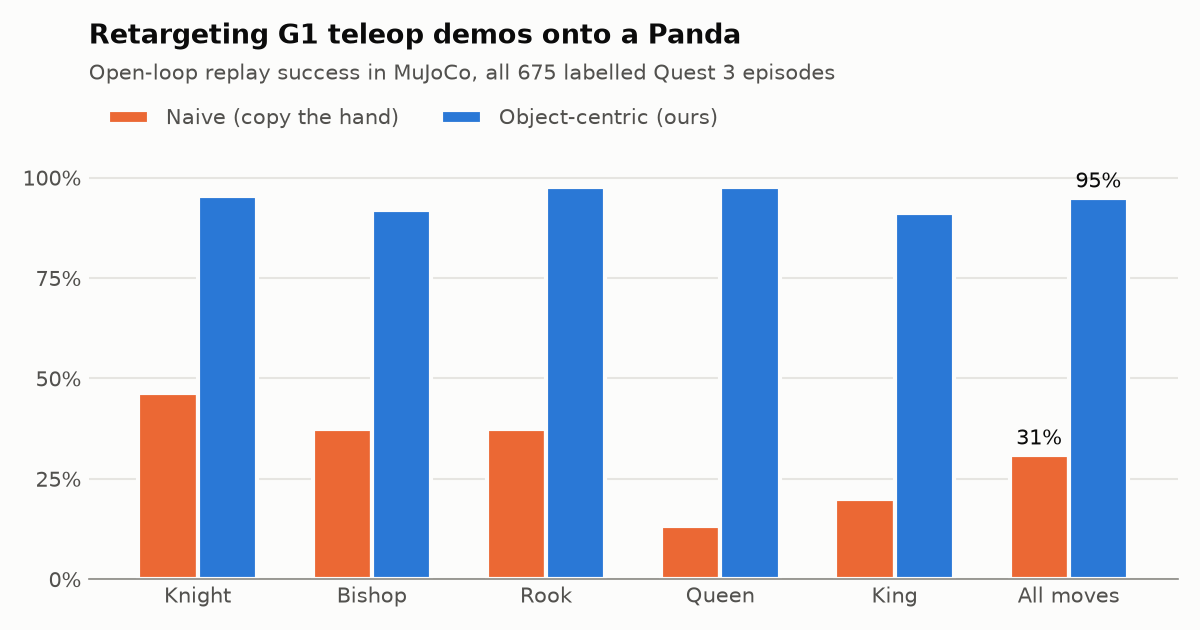
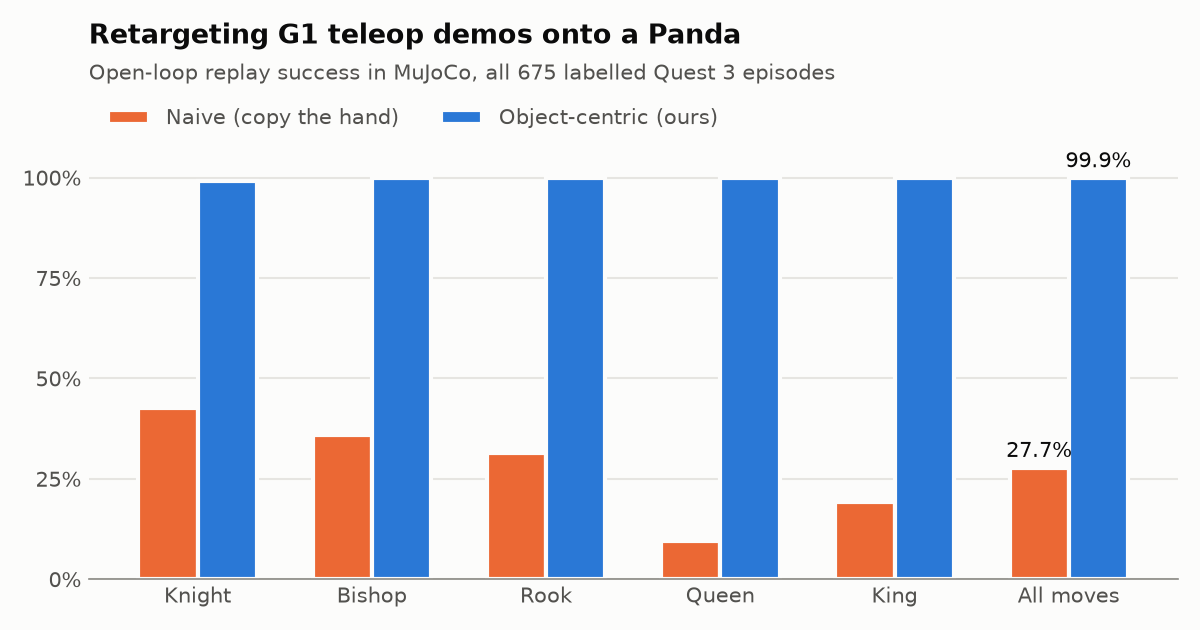
README: final retargeting and game results, what comes from the human data, debugging write-up

diff --git a/scripts/make_figures.py b/scripts/make_figures.py
@@ -53,7 +53,7 @@ def retargeting():
         vals = [np.mean([r["success"] for r in res[m] if g == "all" or r["piece"] == g]) * 100 for g in groups]
         bars = ax.bar(x + (i - 0.5) * w, vals, w, color=SERIES[1 - i], edgecolor=SURFACE, linewidth=2, label=label)
         b = bars[-1]  # direct label on the headline group only
-        ax.text(b.get_x() + b.get_width() / 2, b.get_height() + 1.5, f"{vals[-1]:.0f}%", ha="center",
+        ax.text(b.get_x() + b.get_width() / 2, b.get_height() + 1.5, f"{vals[-1]:.1f}%", ha="center",
                 va="bottom", fontsize=10, color=INK)
     n = len(res["naive"])
     ax.set_xticks(x, [g.capitalize() if g != "all" else "All moves" for g in groups])

diff --git a/README.md b/README.md
@@ -10,6 +10,16 @@ The interesting part is the gap between the two embodiments: a five-fingered hum
 pinches crowns and wraps around knights, versus a two-finger gripper with a 21 cm palm. The
 pipeline closes that gap step by step and measures each step.
 
+| Taken from my recordings | Adapted for the Panda |
+|---|---|
+| every task: the instruction, starting position and move | the last ~0.6 s before each grasp and release: hover, vertical descent, pause, close/open (a gripper cannot copy a Dex3 contact) |
+| where the board was (fitted from my wrist poses alone) | clearance above neighbouring pieces while the gripper is open |
+| the hand's path, timing and speed profile, when it grasps and releases, and the wrist yaw | speed capped at the Panda's limits, and a short transit from wherever the arm is to the start of the motion |
+
+The policies train only on my demonstrations (retargeted, plus board-symmetric copies of the same
+motions), and the full game replays them. The scripted pick-and-place in `chessbot/oracle.py` is
+only used to test the simulator.
+
 <p align="center"><img src="docs/fig_teleop_vs_panda.png" width="760"></p>
 
 **Headline results**
@@ -17,11 +27,11 @@ pipeline closes that gap step by step and measures each step.
 | | |
 |---|---|
 | Board pose recovered from the demos alone | square size **39.97 / 40.43 mm** (left/right arm, true 40 mm), median fingertip error **≈5 mm** |
-| Naive retargeting (copy the hand path) | **30.8 %** of 675 demos succeed on the Panda |
-| Object-centric retargeting (keeps the human's timing, path and yaw) | **94.8 %** succeed |
+| Naive retargeting (copy the hand path) | **27.7 %** of 675 demos succeed on the Panda |
+| Object-centric retargeting (keeps the human's timing, path and yaw) | **99.9 %** succeed (674 / 675) |
 | Board-symmetry augmentation | 469 human demos → **3 015** sim-verified training episodes (augmented copies succeed as often as originals: 94.3 % vs 93.6 %) |
 | Policy trained on them, closed loop | **77 % / 78 % / 70 %** on seen tasks / unseen square pairs / squares never seen in training (flat square embeddings: 0 % on unseen squares; no augmentation: ≤ 22 %) |
-| Whole game | Morphy's *Opera Game* (1858), 33 plies played with my recorded hand motions: 29 / 34 piece moves succeed unassisted, 6 interventions |
+| Whole game | Morphy's *Opera Game* (1858), 33 plies played with my recorded hand motions: **34 / 34** piece moves, **no interventions**, on each of 10 random choices of which demo is replayed per move |
 
 ---
 
@@ -73,8 +83,8 @@ on the Panda's board (`chessbot/retarget.py`).
 | | Naive | Object-centric |
 |---|---|---|
 | What it does | scale the fingertip path to the Panda board, gripper yaw from the wrist heading, gripper width from hand closure | keep the human's **timing, path shape and yaw**; pin the grasp/release keyframes to the piece; Panda-specific contact funnels |
-| Success (675 episodes) | **30.8 %** | **94.8 %** |
-| Main failure | piece dropped on the wrong square (238), off-centre (141), never released (75) | not released (17), off-centre (10) |
+| Success (675 episodes) | **27.7 %** | **99.9 %** |
+| Failures | wrong square (239), off-centre (151), dropped in transit (82), tipped over (8), stuck to a finger (7) | off-centre (1) |
 
 The naive version fails for reasons that are informative about the embodiment gap:
 a dexterous hand approaches a piece diagonally from the side, which a parallel gripper does with a
@@ -94,6 +104,22 @@ Everything a human contributes survives: *when* to grasp and release, the transp
 speed profile, and the wrist yaw. Only the last few centimetres of contact are adapted to the
 gripper.
 
+### The last 5 %: simulator bugs, not retargeting
+
+At 94.8 % I traced every remaining failure step by step (contacts, finger joints, joint torques).
+Almost none were retargeting problems:
+
+| Fix (all 675 episodes, in the order I made them) | Success | What was wrong |
+|---|---|---|
+| starting point | 94.8 % | |
+| keep the fingers coupled | 96.3 % | resetting the grasp welds also switched off Menagerie's equality that couples the two fingers, so one finger could stay pinned to a piece while the other opened, and carry it away |
+| cap speed at the Panda's limits | 95.3 % | a human hand is faster than the arm; the rate limiter then cut corners and came down onto tall pieces before the hand was over them (13 → 0 such failures), but more placements on rank 1 now hit the next bug (5 → 20) |
+| warm-start IK from the commanded joints | 96.7 % | near rank 1 the shoulder is close to a singularity (joints 1 and 3 aligned); solving from the measured state fed the arm's own tracking error back into its target |
+| ramp joint setpoints over each 50 ms step | 99.3 % | stepping them saturated the 87 Nm shoulder joints, which disables the integrator's implicit damping: the pair chattered and placements landed ~2 cm off |
+| hover above the tallest neighbour | 99.9 % | the open fingers could dip beside a neighbour before the pre-grasp funnel |
+| transit from the arm's current pose | 99.9 % | the first target of a move could be 50 cm from where the last one ended (matters in the game, not in single-move replays) |
+
+
 ## 4. The simulator
 
 There is no chessboard in LIBERO, and chess needs millimetre-level placement on 64 named
@@ -110,6 +136,9 @@ Designing for the Panda hand forced some decisions:
   33 mm of it. The first king design was pressed into the board by the palm.
 * **Yaw matters on a crowded board.** The palm is 21 cm long along the finger axis; picking a
   bishop next to a king means rotating the gripper so the palm clears it (`chessbot/oracle.py`).
+* **Controller details matter.** IK is warm-started from the previous command and joint
+  setpoints are ramped across the control period, as the real Panda's 1 kHz controller does; both
+  fixed failures that looked like retargeting problems (see above).
 * **Grasp stabiliser (a disclosed simplification).** Menagerie's fingertips have small "bump"
   colliders whose corners wedge cylinders sideways; I removed them. Even with flat pads, MuJoCo's
   soft contacts let a pinched piece creep ~1 cm along the pads during fast transport, independent of
@@ -181,13 +210,15 @@ environment rather than by the robot.
 | | |
 |---|---|
 | Plies | 33 (one castling, twelve captures) |
-| Single-piece moves succeeding unassisted | 29 / 34 (85 %) |
-| Interventions (a piece snapped back onto its square so the game can continue) | 6 |
+| Single-piece moves succeeding unassisted | 34 / 34 |
+| Interventions (a piece snapped back onto its square so the game can continue) | 0 |
+| Same game with 10 different random choices of which demo to replay per move | 340 / 340 moves, 0 interventions |
 
-The failures cluster in the crowded endgame: captures and long moves to the back rank
-(Qxf3, Rxd7, Qb8+, Nxb8, Rd8#). My demonstrations were recorded on sparse boards with three
-pieces, so a full board is a real distribution shift for motions that were never meant to thread
-between neighbours.
+The first version needed 6 interventions, all in the crowded parts of the game: neighbours
+knocked by an open finger, a rook carried off on one finger, misses on the back rank. Every one
+traced back to the simulator and controller bugs above. My demonstrations were recorded on
+sparse boards with three pieces, so a full board is still the hardest setting for motions that
+were never meant to thread between neighbours.
 
 ## What worked, what didn't
 
@@ -202,11 +233,14 @@ between neighbours.
 **Didn't work, or only partly**
 * Grasp detection from finger closure alone: it fails on pinch grasps (the fingers barely move
   and relax during the carry). The task labels fixed it.
-* Naive retargeting (30.8 %), for the reasons above.
+* Naive retargeting (27.7 %), for the reasons above.
 * Pure contact physics for carrying pieces: see the grasp stabiliser note.
 * The first object-centric version opened the gripper while the arm was still moving (54 %).
-* Crowded full boards are harder than the sparse boards in the demos: palm clearance and
-  occasional knocked neighbours; the game script counts every intervention.
+* Trusting my simulator: the last 5 % of retargeting failures, and every intervention in the full
+  game, were bugs in the finger coupling and the arm controller, not in the method. Tracing
+  individual failures (contacts, joint torques) found them; tuning the retargeter would not have.
+* Crowded full boards are harder than the sparse boards in the demos; the game script counts
+  every intervention (now zero, but the margin around neighbours is a few millimetres).
 
 **Limitations**
 * The compact policy reads a parsed instruction and proprioception, not images; SmolVLA is the
